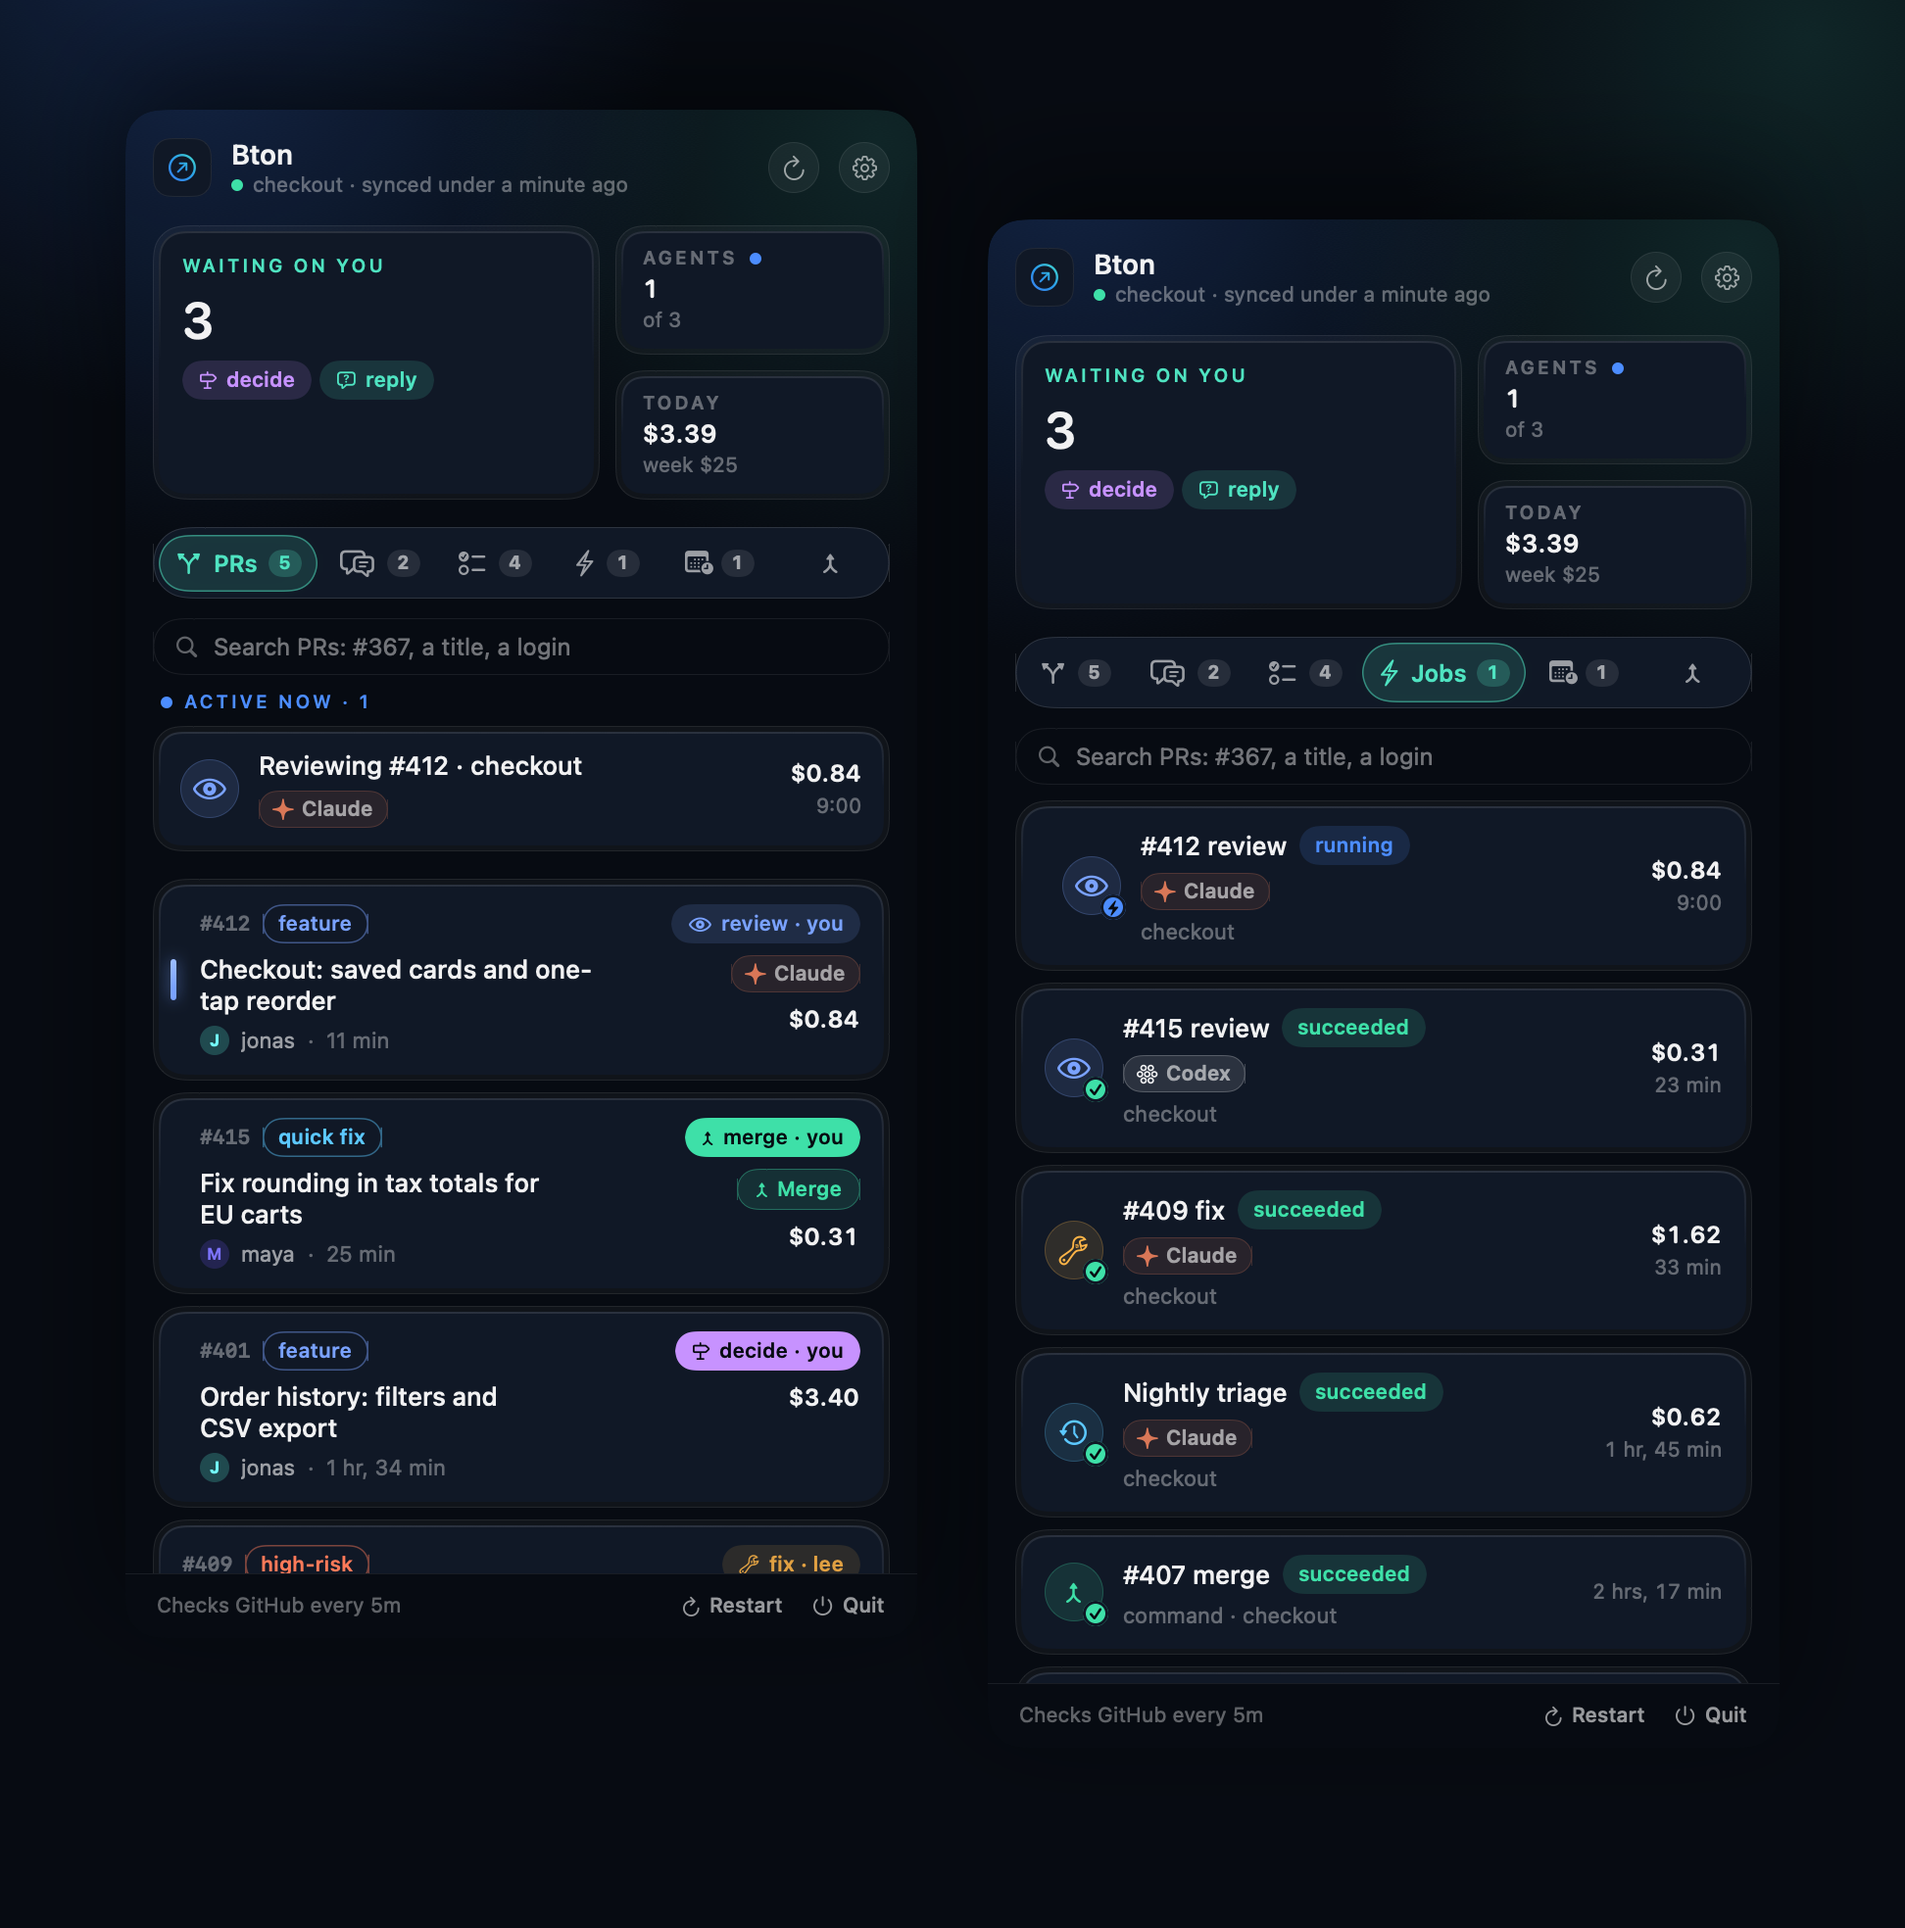
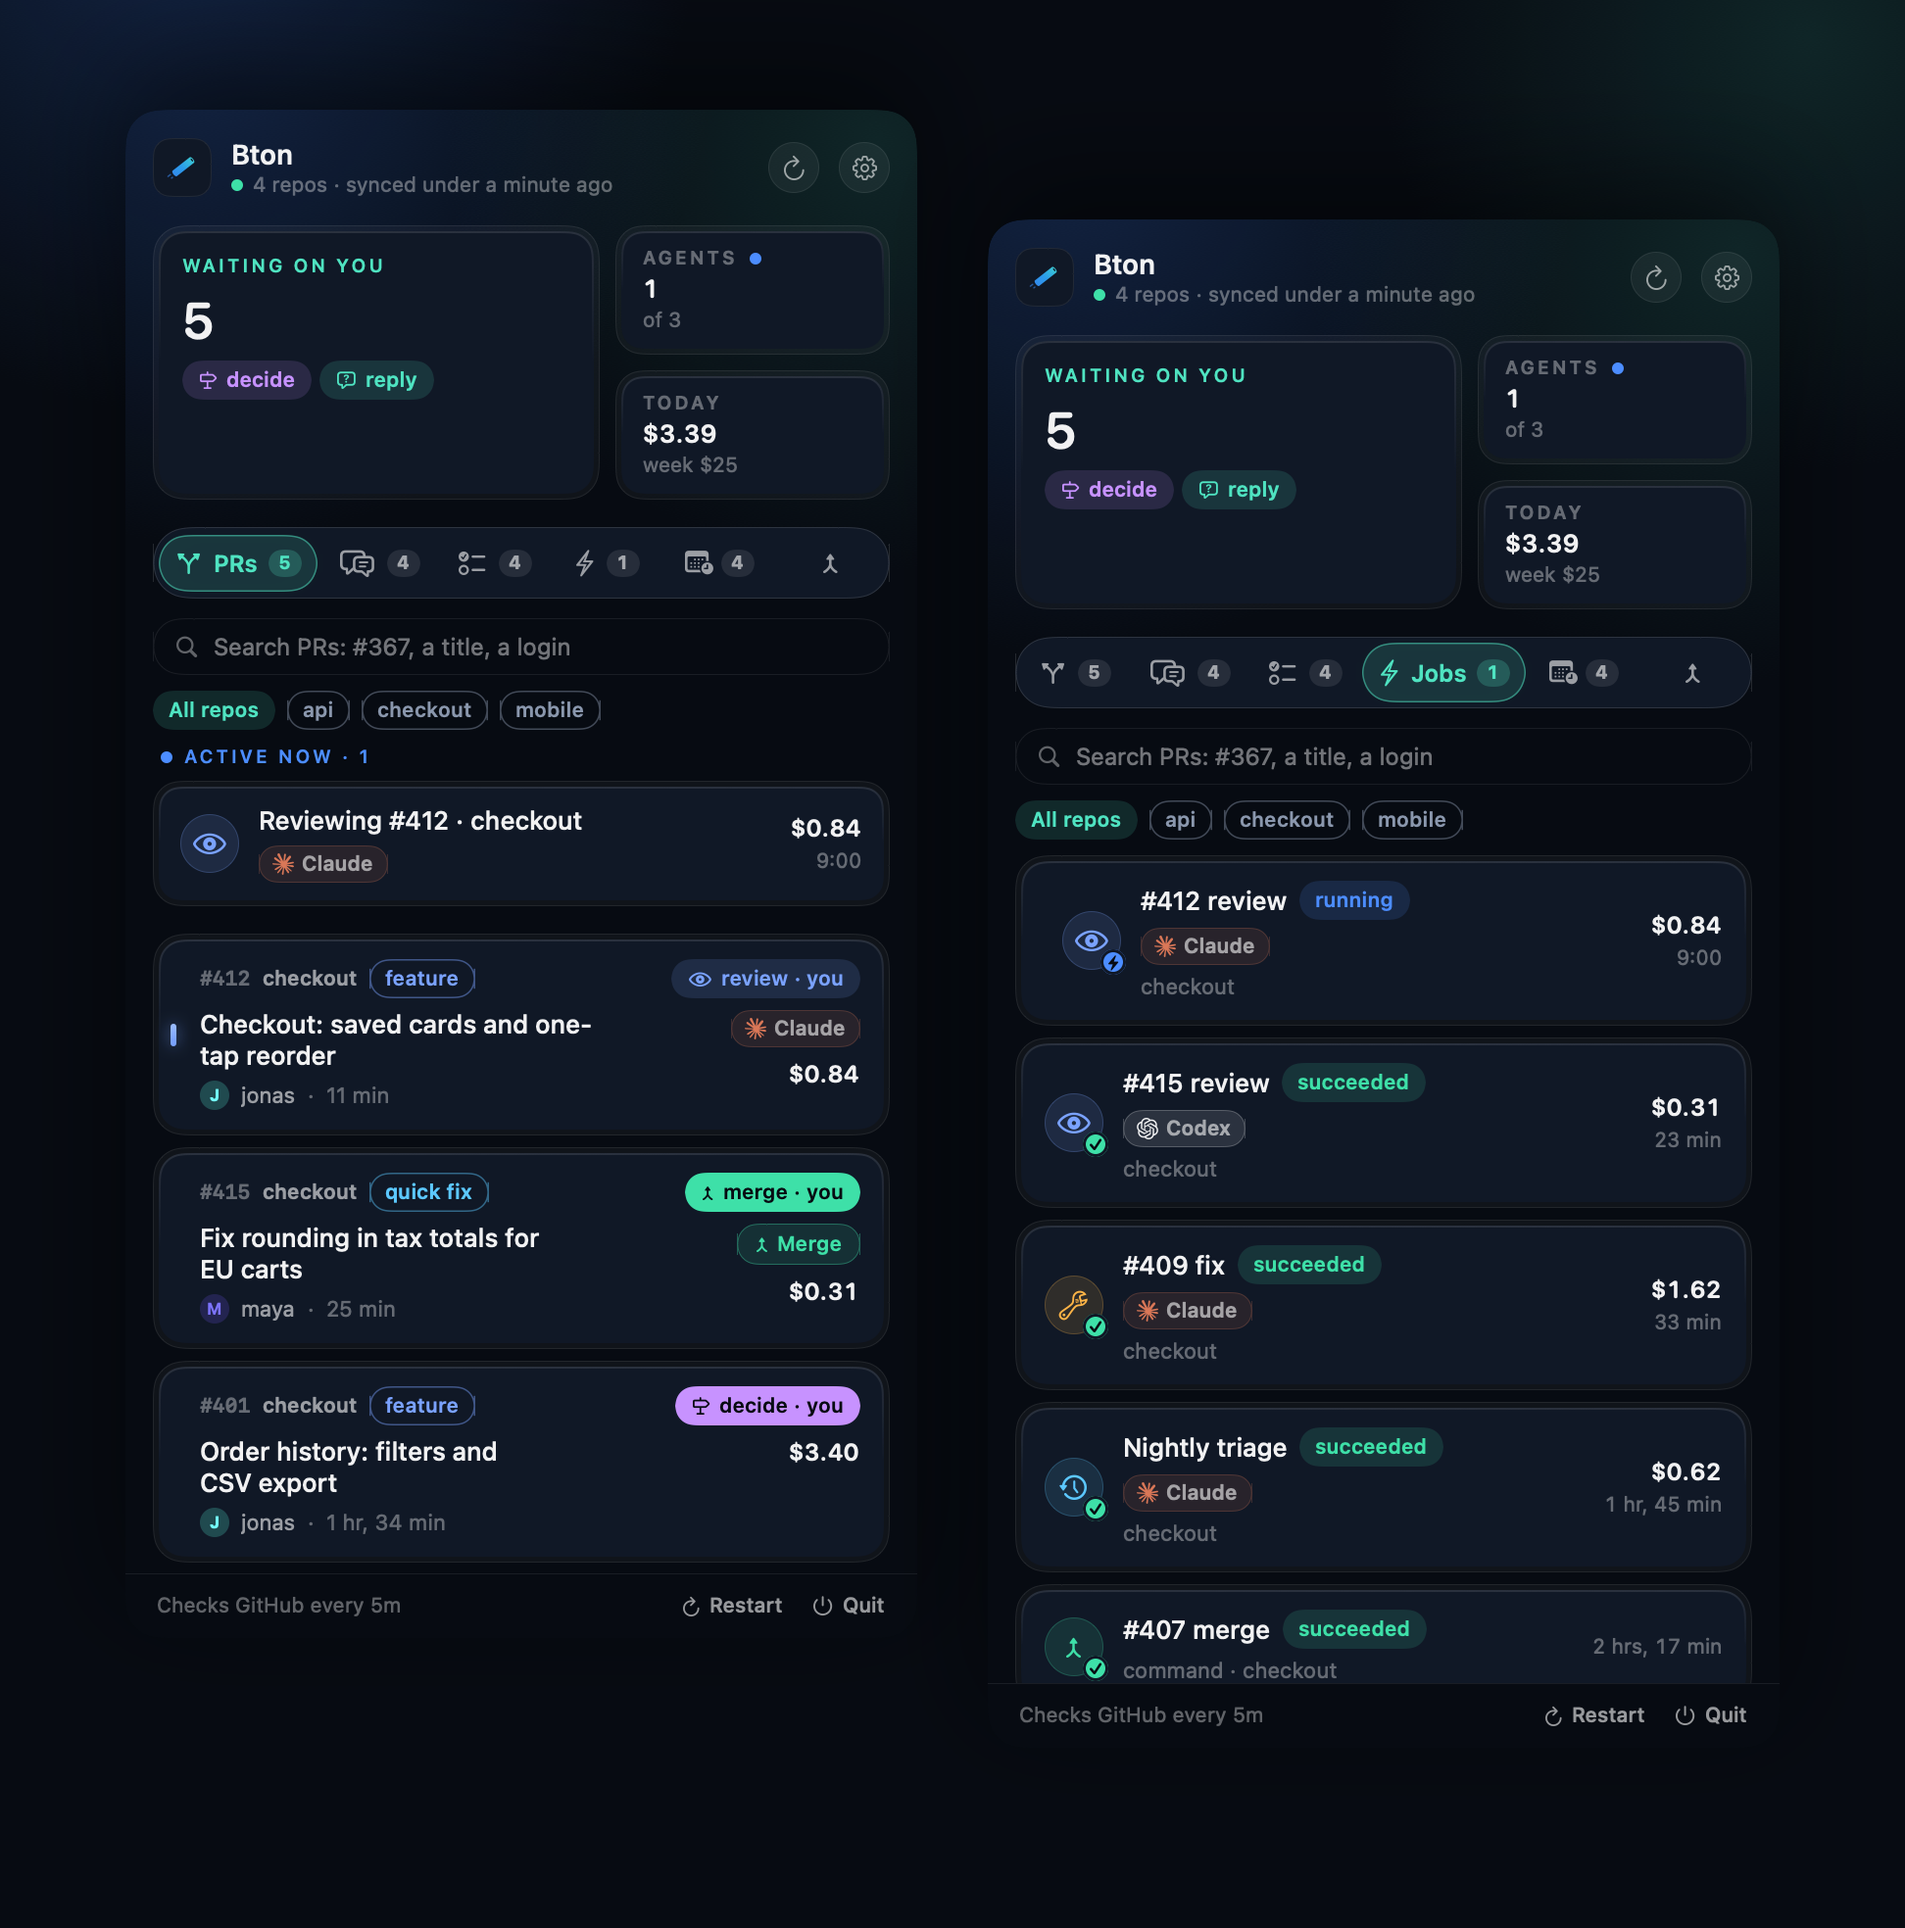
feat: demo shots cover several repos and schedules, and tap.sh pins the Homebrew cask

diff --git a/Sources/Bton/DemoShots.swift b/Sources/Bton/DemoShots.swift
@@ -32,6 +32,7 @@ enum DemoShots {
         try write(newIssue(store, ready: false), to: directory.appendingPathComponent("new-issue.png"))
         try write(newIssue(store, ready: true), to: directory.appendingPathComponent("new-issue-ready.png"))
         try write(pane(ReposPane()).environment(store), to: directory.appendingPathComponent("settings-repos.png"))
+        try write(pane(SchedulesPane()).environment(store), to: directory.appendingPathComponent("settings-schedules.png"))
         try write(pane(AgentsPane()).environment(store), to: directory.appendingPathComponent("settings-agents.png"))
     }
 
@@ -83,7 +84,7 @@ enum DemoShots {
 
     /// A new issue part-way through its conversation, or with the issue written and scored.
     private static func newIssue(_ store: AppStore, ready: Bool) -> some View {
-        let session = NewIssueSession(repo: "acme/shop")
+        let session = NewIssueSession(repo: repo)
         session.turns = [.init(text: "Let customers download their invoices as a CSV file.", round: 1)]
         store.demoReplies = [1: .questions("""
             #212 already adds PDF invoices (open, stage:spec), and src/invoices/export.ts has the PDF writer. \
@@ -137,11 +138,24 @@ enum DemoShots {
                                            "--permission-mode", "acceptEdits"]),
             "codex": AgentTemplate(argv: ["codex", "exec", "--sandbox", "workspace-write", "{prompt}"]),
         ]
-        config.repos = [WatchedRepo(slug: repo, path: "/Users/maya/code/checkout", branch: "main",
-                                    environment: ["DATABASE_URL": "postgres://test@127.0.0.1:5999/checkout"])]
+        config.repos = [
+            WatchedRepo(slug: repo, path: "/Users/maya/code/checkout", branch: "main",
+                        environment: ["DATABASE_URL": "postgres://test@127.0.0.1:5999/checkout"]),
+            WatchedRepo(slug: "harbor/api", path: "/Users/maya/code/api", branch: "main"),
+            WatchedRepo(slug: "harbor/mobile", path: "/Users/maya/code/mobile", branch: "main"),
+            WatchedRepo(slug: "harbor/docs", path: "/Users/maya/code/docs", branch: "main"),
+        ]
         config.voice = VoiceSettings(enabled: true)
-        config.schedules = [ScheduleEntry(name: "Nightly triage", everyMinutes: 1440, enabled: true,
-                                          repo: repo, agent: "claude", prompt: "Triage new issues.", number: 1)]
+        config.schedules = [
+            ScheduleEntry(name: "Nightly triage", everyMinutes: 1440, enabled: true,
+                          repo: repo, agent: "claude", prompt: "Triage new issues.", number: 1),
+            ScheduleEntry(name: "Dependency sweep", everyMinutes: 10080, enabled: true,
+                          repo: "harbor/api", agent: "codex", prompt: "Update patch-level dependencies.", number: 2),
+            ScheduleEntry(name: "Flaky test hunt", everyMinutes: 1440, enabled: true,
+                          repo: "harbor/mobile", agent: "claude", prompt: "Find and fix flaky tests.", number: 3),
+            ScheduleEntry(name: "Docs drift check", everyMinutes: 10080, enabled: true,
+                          repo: "harbor/docs", agent: "claude", prompt: "Compare the docs with the code.", number: 4),
+        ]
         return config
     }
 
@@ -173,6 +187,12 @@ enum DemoShots {
             IssueAsk(repo: repo, number: 402, title: "Webhook retries: which backoff, and who owns the dead-letter queue?",
                      url: URL(string: "https://github.com/\(repo)/issues/402")!, asker: "jonas",
                      askedAt: now.addingTimeInterval(-6 * 60), commentID: "demo-402", handoff: true),
+            IssueAsk(repo: "harbor/api", number: 77, title: "Rate limits for the public orders endpoint: per key or per IP?",
+                     url: URL(string: "https://github.com/harbor/api/issues/77")!, asker: "lee",
+                     askedAt: now.addingTimeInterval(-2 * 3600), commentID: "demo-77"),
+            IssueAsk(repo: "harbor/mobile", number: 215, title: "Push permission prompt: ask at launch or after the first order?",
+                     url: URL(string: "https://github.com/harbor/mobile/issues/215")!, asker: "jonas",
+                     askedAt: now.addingTimeInterval(-5 * 3600), commentID: "demo-215"),
         ]
         snapshot.triage = triage
         snapshot.jobs = [
